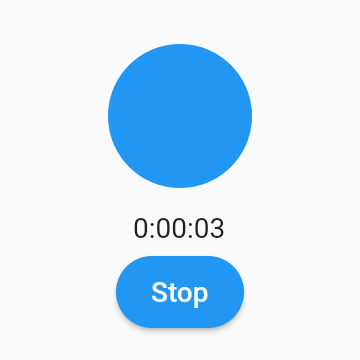
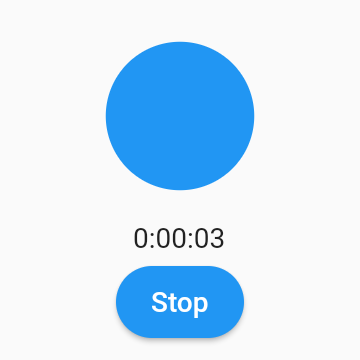
Support round device

diff --git a/lib/main.dart b/lib/main.dart
@@ -11,12 +11,15 @@ void main() {
 class MainWidget extends StatelessWidget {
   const MainWidget({Key? key}) : super(key: key);
 
+  static const Color color = Colors.blue;
+
   @override
   Widget build(BuildContext context) {
     return MaterialApp(
       theme: ThemeData(
         primarySwatch: Colors.blue,
       ),
+      // To change device to dark mode run: adb shell "cmd uimode night yes"
       darkTheme: ThemeData.dark(),
       debugShowCheckedModeBanner: false,
       home: const HomeWidget(title: 'Brethap for Wear OS'),
@@ -28,7 +31,8 @@ class HomeWidget extends StatefulWidget {
   const HomeWidget({Key? key, required this.title}) : super(key: key);
   final String title;
 
-  static String appName = "Brethap";
+  static const String appName = "Brethap";
+  static const String physSigh = "Physio Sigh";
 
   @override
   State<HomeWidget> createState() => _HomeWidgetState();
@@ -42,7 +46,7 @@ class _HomeWidgetState extends State<HomeWidget> {
   List<int> exhales = [0, 0, 0];
 
   final List<String> presets = [
-    PHYS_SIGH_TEXT,
+    HomeWidget.physSigh,
     PRESET_478_TEXT,
     BOX_TEXT,
     DEFAULT_TEXT,
@@ -118,8 +122,9 @@ class _HomeWidgetState extends State<HomeWidget> {
             _status = getDurationString(const Duration(milliseconds: 0));
             timer.cancel();
             ScaffoldMessenger.of(context).showSnackBar(SnackBar(
+              backgroundColor: MainWidget.color,
               content: Text(
-                  "Duration: ${getDurationString(duration)}  Breaths: ${(duration.inMilliseconds / breath).round()}"),
+                  "Duration: ${getDurationString(duration)}  Breaths: ${(duration.inMilliseconds / breath).round()}\n\n\n"),
             ));
             vibrate();
           });
@@ -190,7 +195,7 @@ class _HomeWidgetState extends State<HomeWidget> {
       _title = value;
       _status = getDurationString(const Duration(milliseconds: 0));
       switch (value) {
-        case PHYS_SIGH_TEXT:
+        case HomeWidget.physSigh:
           inhales[0] = INHALE_PS;
           inhales[1] = INHALE_HOLD_PS;
           inhales[2] = INHALE_LAST_PS;
@@ -231,31 +236,42 @@ class _HomeWidgetState extends State<HomeWidget> {
   Widget build(BuildContext context) {
     return Scaffold(
       appBar: AppBar(
+        centerTitle: true,
         title: Visibility(
             visible: !_isRunning,
             child: Text(_title,
-                style: const TextStyle(color: Colors.blue, fontSize: 12))),
+                style: const TextStyle(color: MainWidget.color, fontSize: 9))),
         backgroundColor: Colors.transparent,
         elevation: 0,
         actions: <Widget>[
           Visibility(
             visible: !_isRunning,
             child: PopupMenuButton<String>(
+              elevation: 0,
               icon: const Icon(
                 Icons.more_vert,
-                color: Colors.blue,
+                color: MainWidget.color,
               ),
               onSelected: updatePreset,
               itemBuilder: (BuildContext context) {
                 return presets.map((String choice) {
                   return PopupMenuItem<String>(
                     value: choice,
-                    child: Text(choice),
+                    child: Row(
+                      mainAxisAlignment: MainAxisAlignment.center,
+                      children: [
+                        Text(choice,
+                            style: const TextStyle(
+                              color: MainWidget.color,
+                            ))
+                      ],
+                    ),
                   );
                 }).toList();
               },
             ),
-          )
+          ),
+          const SizedBox(width: 35.0),
         ],
       ),
       extendBodyBehindAppBar: true,
@@ -269,8 +285,8 @@ class _HomeWidgetState extends State<HomeWidget> {
                     child: Padding(
                       padding: const EdgeInsets.all(8.0),
                       child: Container(
-                        width: 80.0,
-                        height: 80.0,
+                        width: 90.0,
+                        height: 90.0,
                         decoration: BoxDecoration(
                           color: Theme.of(context).primaryColor,
                           shape: BoxShape.circle,

diff --git a/README.md b/README.md
@@ -1,6 +1,6 @@
 # Brethap Wear
 
-[Brethap](https://github.com/jithware/brethap) version for Wear OS.
+Slimmed down version of [Brethap](https://github.com/jithware/brethap) for Wear OS.
 
 [<img src="https://play.google.com/intl/en_us/badges/images/generic/en-play-badge.png"
      alt="Get it on Google Play"
@@ -9,7 +9,11 @@
 
 ## Screenshots
 
-*TODO*
+![home](./screenshots/android/1_home.png)
+![inhale](./screenshots/android/2_inhale.png)
+![stats](./screenshots/android/3_stats.png)
+![presets](./screenshots/android/4_presets.png)
+![dark](./screenshots/android/5_dark.png)
 
 ## Usage
 
